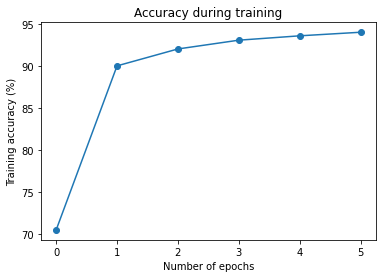
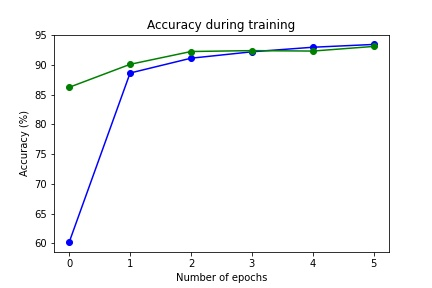
edited readme

Changed region(s): [[0.0, 0.0288, 0.9791, 0.9784], [0.9791, 0.0863, 1.0, 0.8633]]

diff --git a/tracker.py b/tracker.py
@@ -5,7 +5,7 @@ import time
 from net_classifier import Classifier
 import os, random, string 
 from shutil import copyfile
-import sys
+import sys, getopt
 import fcntl
 from v4l2 import (
     v4l2_format, VIDIOC_G_FMT, V4L2_BUF_TYPE_VIDEO_OUTPUT, V4L2_PIX_FMT_RGB24,
@@ -17,23 +17,36 @@ frame_width = 640
 frame_height = 480
 frame_rate = 60
 
-pipeline = rs.pipeline()
-config = rs.config()
-config.enable_stream(rs.stream.depth, frame_width, frame_height, rs.format.z16, frame_rate)
-config.enable_stream(rs.stream.color, frame_width, frame_height, rs.format.bgr8, frame_rate)
-profile = pipeline.start(config)
 
 class Tracker():
     """ Class to handle realsen camera vision 
     This class should setup intel realsense camera streaming, allow setting up filter color
     range using trackbars, track a pen by either color filtering or haar cascade detections to
     writing on the frames, and finally output preditected letters written on the frames. 
+
+        Args:
+            use_web_cam: whether to use webcam for tracking pen.
+            use_colored_pen: whether to track pen using color filtering 
+            use_default_model: whether to use the default trained model `models/model_letters.pth`.
+                            if this is set to False, specify location of the customized model
+                            using `model_path`.
+            model_path: path to PyTorch model.
+            enable_stream: whether to enable streaming to a virtual camera.
+            virtual_cam: address of virtual camera to stream to. 
+                            
     """
     def __init__(self, use_web_cam = False, use_colored_pen=False, use_default_model = True, model_path = None,  
                     enable_stream = False, virtual_cam = "/dev/video11"):
        
         self.use_web_cam =  use_web_cam
-        self.pipeline = cv.VideoCapture(0) if use_web_cam else pipeline
+        if use_web_cam:
+            self.pipeline = cv.VideoCapture(0) 
+        else:
+            self.pipeline = rs.pipeline()
+            config = rs.config()
+            config.enable_stream(rs.stream.depth, frame_width, frame_height, rs.format.z16, frame_rate)
+            config.enable_stream(rs.stream.color, frame_width, frame_height, rs.format.bgr8, frame_rate)
+            self.profile = self.pipeline.start(config)
         
         # variables for depth camera
         self.background_color = 255
@@ -172,7 +185,7 @@ class Tracker():
     def setup_stream(self):
         """ Setup streaming for realsense camera """
         # setup streaming 
-        depth_sensor = profile.get_device().first_depth_sensor()
+        depth_sensor = self.profile.get_device().first_depth_sensor()
         depth_scale = depth_sensor.get_depth_scale()
         print("Depth Scale is: " , depth_scale)
 
@@ -262,16 +275,14 @@ class Tracker():
         # bg_removed = np.where((depth_image_3d > self.clipping_distance) | (depth_image_3d <= self.min_distance), \
         #                     self.background_color, color_image)
              
-        # Uncomment the following to track a pen by filtering coler, should be used with depth frames
-        if self.use_colored_pen:
+        if self.use_colored_pen:    #track a pen by filtering coler
             color_image = self.back_sub(color_image)
             hsv = cv.cvtColor(color_image, cv.COLOR_BGR2HSV)
             mask = self.filter_color(hsv)
             color_image = self.write_color_filter(mask, color_image)
             mask_bw = cv.cvtColor(mask, cv.COLOR_GRAY2BGR) # back and white images 
             res = cv.bitwise_and(color_image, color_image, mask=mask)
-        else:
-        # Uncomment the following to track a pen using haar cascade object detection
+        else:       #track a pen using haar cascade object detection
             color_image = self.write(color_image)
 
         # Put classified letters on frames
@@ -290,8 +301,7 @@ class Tracker():
         
 
         # Edit self.window_images to change your preferred output frame
-        # self.window_images = np.hstack((bg_removed, np.fliplr(color_image), res)) # frames for color filtering
-        self.window_images = color_image                                            # frames for haar cascade detections
+        self.window_images = color_image                                        
     
     def back_sub(self, frame):
         """ Background subtraction
@@ -489,18 +499,45 @@ class Tracker():
 
 
 
-def main():
+def main(argv):
     """ The main() function. """
-    tracker = Tracker()                                             # default configuration, track pen using haar cascade model
-    # tracker = Tracker(enable_stream=True)                         # allow streaming to virtual camera
-                                                                    # the default virtual camera address is /dev/video11
-                                                                    # use param `virtual_cam` to specify a different address
-    # tracker = Tracker(use_web_cam=True, use_colored_pen=True)     # track pen using colored mask and webcam
+    use_stream = False
+    use_webcam = False
+    try:
+        opts, args = getopt.getopt(argv,"psw", ["use_stream", "use_webcam"])
+    except getopt.GetoptError:
+        print("Useage:")
+        print(" -s --use_stream          enable stream")
+        print(" -w --use_webcam          use webcam and color tracking")
+        sys.exit(2)
+    for opt, arg in opts:
+        if opt in ("-s", "--use_stream"):
+            use_stream = True
+        elif opt in ("-w", "--use_webcam"):
+            use_webcam = True
+        else:
+            print("Useage:")
+            print("-s --use_stream          enable stream")
+            print("-w --use_webcam          use webcam and color tracking")
+            sys.exit(2)
+
+    
+    if use_webcam:
+        print("Use Webcam and Color Tracking")
+        tracker = Tracker(use_web_cam=True, use_colored_pen=True)     # track pen using colored mask and webcam
+    elif use_stream:
+        print("Enable Stream") 
+        tracker = Tracker(enable_stream=True)   # allow streaming to virtual camera
+                                                # the default virtual camera address is /dev/video11
+                                                # use param `virtual_cam` to specify a different address
+    else:
+        print("Use Depth Camera and Haar Cascade Object Detection")
+        tracker = Tracker()           # default configuration, track pen using haar cascade model
 
 
 if __name__=="__main__": 
     try:
-        main()
+        main(sys.argv[1:])
     except Exception as inst:
         print(inst)
     finally:

diff --git a/README.md b/README.md
@@ -3,7 +3,8 @@
 * 2021 Winter Project
 
 ## Overview
-The main goal of this project is to classify letters written in front of a depth camera. First, the project tracks a pen using Haar Cascade algorithm to write letters in front of a depth camera in a way that the frames are interpreted as a canvas. Then, it will store canvas into an image, use a pre-trained model to classify the letter, and print the result back to frames. The code provides an option to store the last classified letter into a custom dataset that can be used for further learning. The output frames can also be streamed onto a virtual camera so that the results are displayable in Zoom.
+The main goal of this project is to classify letters written in front of a depth camera. First, the project tracks a pen to write letters in front of a depth camera in a way that the frames are interpreted as a canvas. Then, it will store canvas into an image, use a pre-trained model to classify the letter, and print the result back to frames. The code provides an option to store the last classified letter into a custom dataset that can be used for further learning. The output frames can also be streamed onto a virtual camera so that the results are displayable in Zoom. Checkout the video demo 
+[here](https://youtu.be/9Fl5xeTdH-4).
 
 ## Requirements
 * [PyTorch](https://pytorch.org/get-started/locally/)
@@ -17,15 +18,38 @@ The main goal of this project is to classify letters written in front of a depth
     * Notice: an error message `TypeError: unsupported operand type(s) for +: 'range' and 'list'` may occur when importing from `v4l2`, go ahead and change `range(_,_)` to `list(rang(_,_))` in the source code. [See bug report.](https://bugs.launchpad.net/python-v4l2/+bug/1664158)   
 * [ffmpeg](https://www.ffmpeg.org/) 
 
-## Menu
--
--
--
+## How to Use
+#### Options
+1. Run project using the default configuration, which is to track pen using a depth camera and a Haar Cascade model. 
+    ```
+    python3 tracker.py
+    ```
+2. Enable streaming to a virtual camera while tracking pen with depth camera and Haar Cascade model.
+    ```
+    python3 tracker.py -s
+    ```
+3. Track pen using webcam and color filtering. The defualt color is red.
+    ```
+    python3 tracker.py -w`
+    ``` 
+4. Other options included in `Tracker` class are as follows:
+    - `use_default_model` - whether to use the default trained model `models/model_letters.pth`.
+    - `model_path` - path to customized PyTorch model.
+    - `virtual_cam` - address of customzied virtual camera to stream to.   
+#### Keyboard Input     
+While running the code, press the following keys to execute corresponding functions.   
+- `Q` or `ESC` - exit window.    
+- `C` - clear writing board.   
+- `W` - clear predictions displayed on screen.   
+- `S` - save writing and classify letter.   
+- `A` - save current writing to user dataset.   
+- `N` - redo classification, will display the next possible letter.   
+- `E` - switch between pen and eraser.   
 
 ## Contents
 1. Machine Learning  
     - [PyTorch Letter Training](models/README.md)
-    - [PyTorch Letter Classification](models/README.md)
+    - [PyTorch Letter Classification](models/README.md#pyTorch-letter-classification)
 2. Computer Vision 
     - [Track Colored Pen](#track-colored-pen) vs. [Haar Cascade Object Detection](cascade/README.md)
 3. Integration
@@ -40,9 +64,9 @@ colored pen, is used. To make detecting the color range easier, `tracker.py` als
 ![gif]
 
 ## Combine Classifier with Opencv Frames  
-This project consists of two main classes: `Tracker` and `Classifier`. `Tracker` is responsible for tracking a pen in front of a depth camera, and `Classifier` is responsible for classifying user inputs, which are cropped frames that bound user's writing. When running `tracker.py`, `Tracker` will first initialize a `Classifier` class and start tracking pen using either color filtering or Haar Cascade object detection, then it will wait for keyboard inputs. Specific functions of keys are explained in [menu](#menu). A simplified workflow of how `Tracker`  and `Classifier` are integrated together is shown below. 
+This project consists of two main classes: `Tracker` and `Classifier`. `Tracker` is responsible for tracking a pen in front of a depth camera, and `Classifier` is responsible for classifying user inputs, which are cropped frames that bound user's writing. When running `tracker.py`, `Tracker` will first initialize a `Classifier` class and start tracking pen using either color filtering or Haar Cascade object detection, then it will wait for keyboard inputs. Specific functions of keys are explained in [How to Use](#how-to-use). A simplified workflow of how `Tracker`  and `Classifier` are integrated together is shown below. 
 
-![simple_workflow](demo/simple_workflow.jpg)
+![simple_workflow](demo/simple_workflow.png)
 
 When initializing `Tracker`, user needs to specify a path to a trained model and a folder to store user inputs so that `Classifier` can load the network at startoff and wait for images to be classified. The input for function `classify` is an image file name in form `<index>_<random_string>.png`. `classify` will then load the image that correspond to the correct file name. This is to ensure that proper transforms are applied to images and the resulting data to be put into model is the same as training. 
 

diff --git a/models/README.md b/models/README.md
@@ -13,15 +13,15 @@ The neural network used to train EMNIST letter dataset has three hidden layers. 
 
 ![nn_architecture](../demo/nn_architecture.png)
 
-The network is trained using 6 epochs and took around 10 minutes. The resulting accuracy is 94.0%. The loss after the last epoch of training is 0.00642. Compared to the previous loss 0.00698. It is likely to increase accuracy of the model by training a few more epochs, but may also cause overfitting. Given that the decrease in loss in as small as 1e-4, 6 epochs of training should be sufficient. 
-<img src="../demo/training_loss.jpg" height="250" alt="training_loss" style="margin-left:50px">   <img src="../demo/training_acc.jpg" height="250" alt="training_acc" style="margin-left:50px">
+The network is trained using 5 epochs and took around 10 minutes. The final accuracies on testing set and validation set are 93.0% and 92.5% respectively. 
+<img src="../demo/training_loss.jpg" height="250" alt="training_loss" >   <img src="../demo/training_acc.jpg" height="250" alt="training_acc" style="margin-left:50px">
 
 #### Model Accuracy
 The overall accuray of trained model on EMNIST letter dataset is around 93.5%. Accuracies on each class for most classes are above 90%. 
 <img src="../demo/test_acc.jpg" height="350" alt="test_acc">  
 
 As seen from the image above, the exceptions are G, I, a L. It is reasonable that I and L are easily confused, given that lower case i and l are very similar. As for G, this is likely to be confused with lowercase Q. The images below are lowercase letters I, L, Q, G from left to right.  
-<img src="../demo/emnist_i.jpg" height="100" alt="emnist_i" style="margin-left:50px">   <img src="../demo/emnist_l.jpg" height="100" alt="emnist_l" style="margin-left:50px"> <img src="../demo/emnist_q.jpg" height="100" alt="emnist_q" style="margin-left:50px">   <img src="../demo/emnist_g.jpg" height="100" alt="emnist_g" style="margin-left:50px">
+<img src="../demo/emnist_i.png" height="100" alt="emnist_i" style="margin-left:50px">   <img src="../demo/emnist_l.png" height="100" alt="emnist_l" style="margin-left:50px"> <img src="../demo/emnist_q.png" height="100" alt="emnist_q" style="margin-left:50px">   <img src="../demo/emnist_g.png" height="100" alt="emnist_g" style="margin-left:50px">
 
 
 ## PyTorch Letter Classification
@@ -40,7 +40,8 @@ Most classes are able to be classified. The images that are misclassified is lik
 To solve this problem, the pen in `tracker.py` can be swtiched between mode writing and erasing by pressing `E`.
 
 ## Related Files
-- `models/model_letter.pth` - trained neural network for classifying EMNIST letters dataset
-- `models/Pytorch_Training.ipynb` - outlines the steps on training the neural network
-- `models/Pytorch_Testing.ipynb` - tests trained neural network on user inputs (writing infron of a depth camera)
-- `net_classifier.py` - includes helper classes and functions for classifying and testing uer inputs
+- `models/model_letter.pth` - trained neural network for classifying EMNIST letters dataset.
+- `models/Pytorch_Training_Letters.ipynb` - outlines the steps on training the neural network using EMNIST letters statset.   
+- `models/Pytorch_Testing.ipynb` - tests trained neural network on user inputs (writing infron of a depth camera).
+- `net_classifier.py` - includes helper classes and functions for classifying and testing uer inputs.
+- [user_dataset.zip](https://drive.google.com/file/d/1Rhdzq3cQDivl3OSlLLYgq3ii3eXRylLw/view?usp=sharing) - a zipfile of images used for testing accuracy of model on user inputs.
